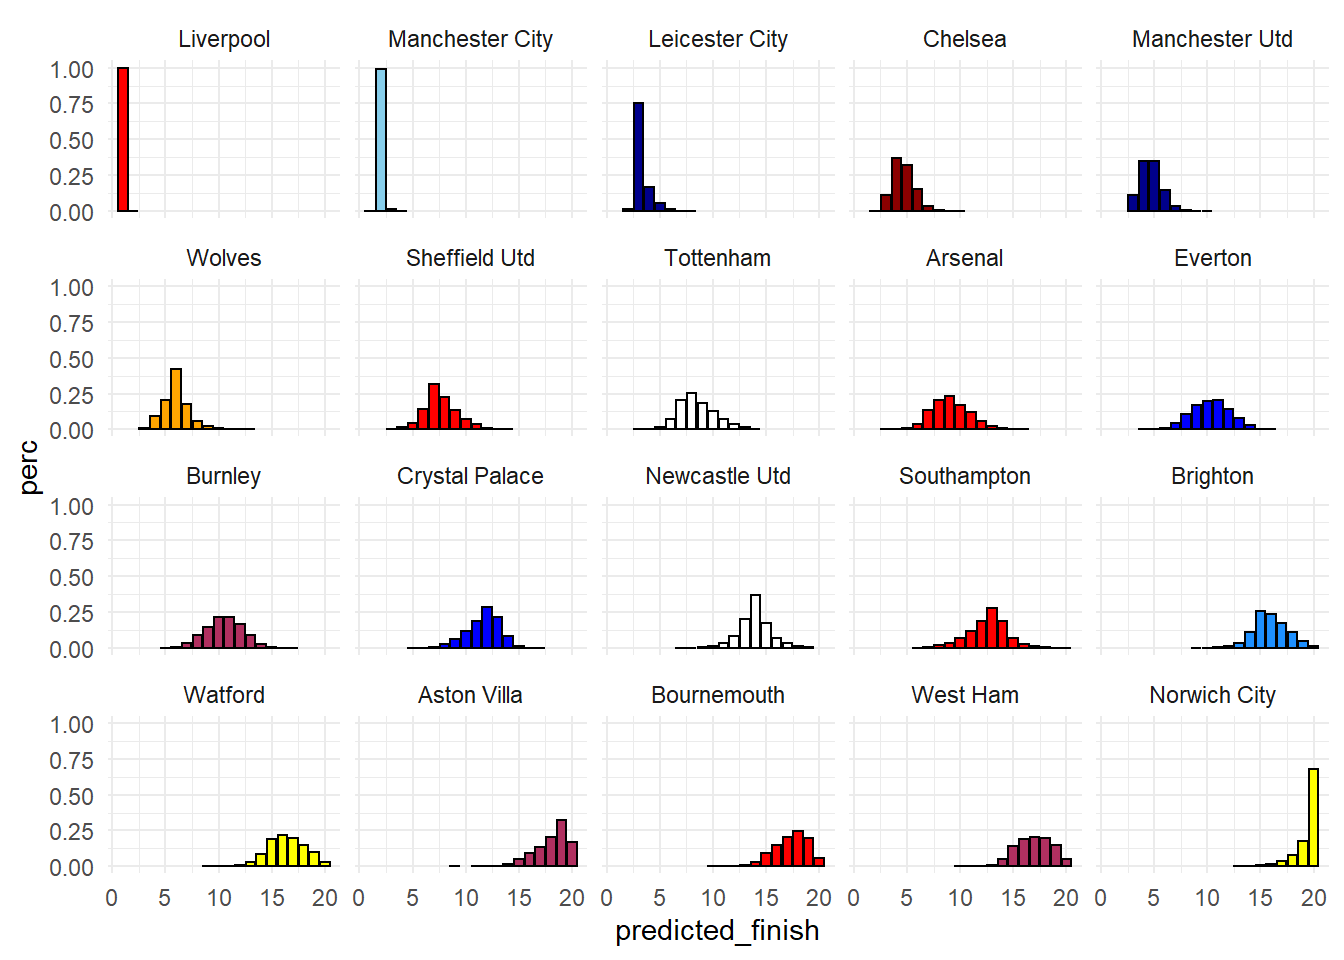
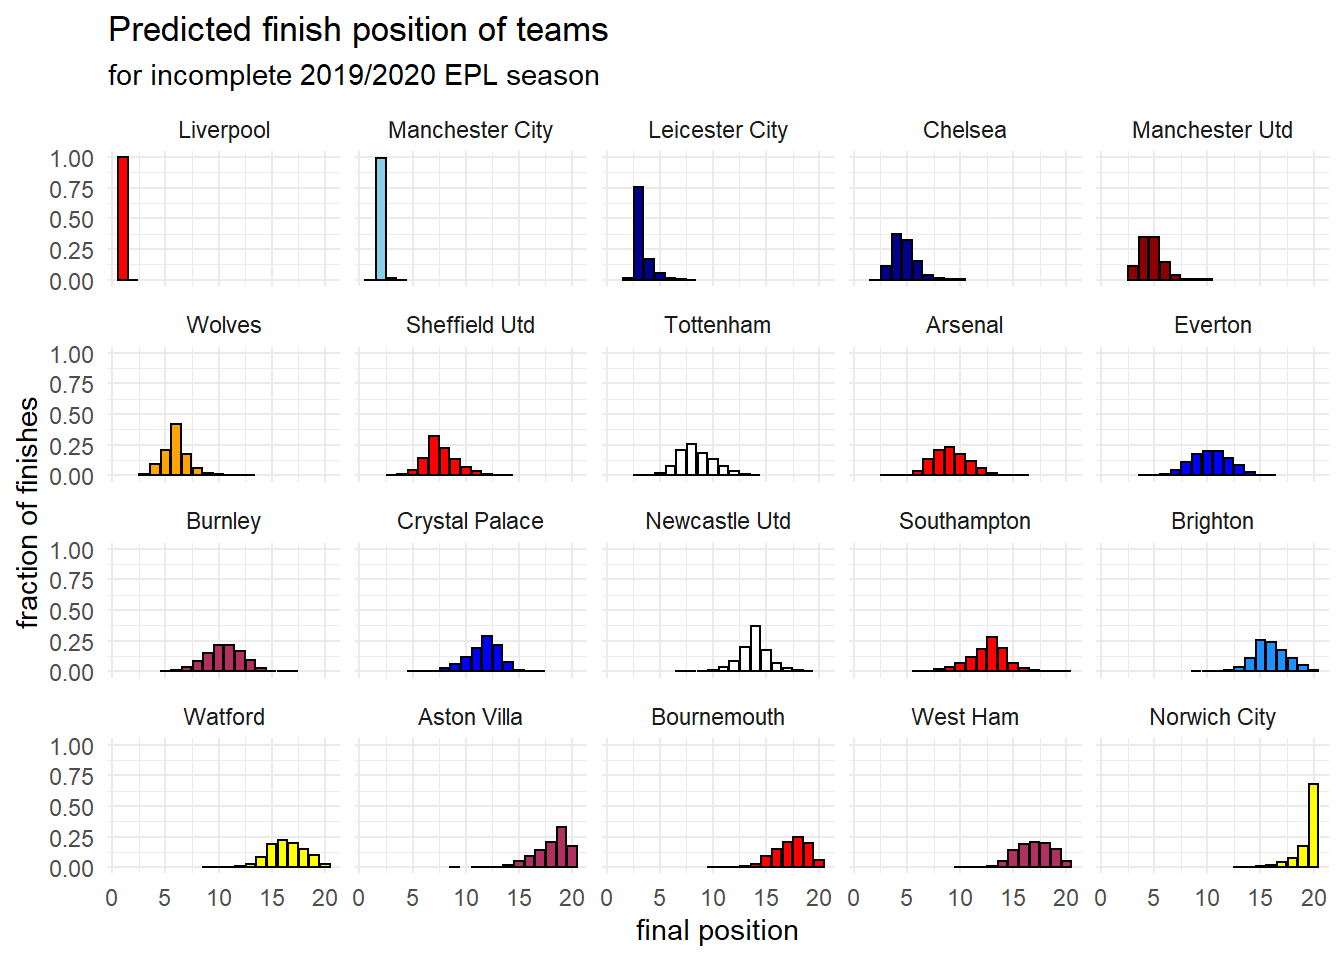
fixing small changes in dc psot 2

diff --git a/content/post/2019-30-5-dixon-coles-2.html b/content/post/2019-30-5-dixon-coles-2.html
@@ -455,11 +455,8 @@ p5 &lt;- pars_2020 %&gt;%
   ggplot(aes(x = attack, y = defence, colour = attack + defence, label = team)) +
   geom_point(size = 3, alpha = 0.7) +
   geom_text_repel() +
-  labs(title = &quot;Dixon Coles parameters per team 2019/2020&quot;,
-       x = &quot;attacking strength&quot;,
-       y = &quot;defensive strength&quot;) +
   scale_colour_continuous(guide = FALSE) +
-  labs(title = &quot;Dixon-Coles parameters for the 2019/2020 Premier League Season&quot;,
+  labs(title = &quot;Dixon-Coles parameters for the 2019/2020 EPL&quot;,
        x = &quot;attacking strength&quot;,
        y = &quot;defensive strength&quot;) +
   theme_minimal()
@@ -529,7 +526,7 @@ predicted_finishes_2020 &lt;- map_df(fixture_sims_2020, function(sim_fixtures, t
   mutate(team = factor(team, levels = unique(team)))</code></pre>
 <p>If we then plot these predicted finishes (ordered by the chance of their highest finish position), we can get an idea of where we expect teams to end the season:</p>
 <pre class="r"><code>#list of team colours
-team_cols &lt;- c(&quot;red&quot;, &quot;skyblue&quot;, &quot;darkblue&quot;, &quot;darkred&quot;, &quot;darkblue&quot;,
+team_cols &lt;- c(&quot;red&quot;, &quot;skyblue&quot;, &quot;darkblue&quot;, &quot;darkblue&quot;, &quot;darkred&quot;,
                &quot;orange&quot;, &quot;red&quot;, &quot;white&quot;, &quot;red&quot;, &quot;blue&quot;, &quot;maroon&quot;, 
                &quot;blue&quot;, &quot;white&quot;, &quot;red&quot;, &quot;dodgerblue&quot;, &quot;yellow&quot;, 
                &quot;maroon&quot;, &quot;red&quot;, &quot;maroon&quot;, &quot;yellow&quot;)
@@ -539,6 +536,12 @@ p6 &lt;- ggplot(predicted_finishes_2020,
              aes(x = predicted_finish, y = perc, fill = team)) +
   geom_bar(stat = &quot;identity&quot;, colour = &quot;black&quot;) +
   scale_fill_manual(values = team_cols, guide = FALSE) +
+  labs(
+    title = &quot;Predicted finish position of teams&quot;,
+    subtitle = &quot;for incomplete 2019/2020 EPL season&quot;,
+    y = &quot;fraction of finishes&quot;,
+    x = &quot;final position&quot;
+  ) +
   theme_minimal() +
   facet_wrap(~team)
 

diff --git a/public/post/dixon_coles_2/index.html b/public/post/dixon_coles_2/index.html
@@ -747,11 +747,8 @@ p5 &lt;- pars_2020 %&gt;%
   ggplot(aes(x = attack, y = defence, colour = attack + defence, label = team)) +
   geom_point(size = 3, alpha = 0.7) +
   geom_text_repel() +
-  labs(title = &quot;Dixon Coles parameters per team 2019/2020&quot;,
-       x = &quot;attacking strength&quot;,
-       y = &quot;defensive strength&quot;) +
   scale_colour_continuous(guide = FALSE) +
-  labs(title = &quot;Dixon-Coles parameters for the 2019/2020 Premier League Season&quot;,
+  labs(title = &quot;Dixon-Coles parameters for the 2019/2020 EPL&quot;,
        x = &quot;attacking strength&quot;,
        y = &quot;defensive strength&quot;) +
   theme_minimal()
@@ -821,7 +818,7 @@ predicted_finishes_2020 &lt;- map_df(fixture_sims_2020, function(sim_fixtures, t
   mutate(team = factor(team, levels = unique(team)))</code></pre>
 <p>If we then plot these predicted finishes (ordered by the chance of their highest finish position), we can get an idea of where we expect teams to end the season:</p>
 <pre class="r"><code>#list of team colours
-team_cols &lt;- c(&quot;red&quot;, &quot;skyblue&quot;, &quot;darkblue&quot;, &quot;darkred&quot;, &quot;darkblue&quot;,
+team_cols &lt;- c(&quot;red&quot;, &quot;skyblue&quot;, &quot;darkblue&quot;, &quot;darkblue&quot;, &quot;darkred&quot;,
                &quot;orange&quot;, &quot;red&quot;, &quot;white&quot;, &quot;red&quot;, &quot;blue&quot;, &quot;maroon&quot;, 
                &quot;blue&quot;, &quot;white&quot;, &quot;red&quot;, &quot;dodgerblue&quot;, &quot;yellow&quot;, 
                &quot;maroon&quot;, &quot;red&quot;, &quot;maroon&quot;, &quot;yellow&quot;)
@@ -831,6 +828,12 @@ p6 &lt;- ggplot(predicted_finishes_2020,
              aes(x = predicted_finish, y = perc, fill = team)) +
   geom_bar(stat = &quot;identity&quot;, colour = &quot;black&quot;) +
   scale_fill_manual(values = team_cols, guide = FALSE) +
+  labs(
+    title = &quot;Predicted finish position of teams&quot;,
+    subtitle = &quot;for incomplete 2019/2020 EPL season&quot;,
+    y = &quot;fraction of finishes&quot;,
+    x = &quot;final position&quot;
+  ) +
   theme_minimal() +
   facet_wrap(~team)
 

diff --git a/public/post/cam_rowing_1/index.html b/public/post/cam_rowing_1/index.html
@@ -517,9 +517,9 @@ p2</code></pre>
     
     <li><a href="/project/yorkshire_world_cup/">Could Yorkshire Win the World Cup</a></li>
     
-    <li><a href="/post/dynamic_web_scraping/">Scraping Dynamic Websites with PhantomJS</a></li>
-    
     <li><a href="/post/guardian_knowledge_june/">The Guardian Knowledge June 2019</a></li>
+    
+    <li><a href="/post/dynamic_web_scraping/">Scraping Dynamic Websites with PhantomJS</a></li>
     
     <li><a href="/post/riddler-1st-feb-2019/">Riddler 1st February 2019</a></li>
     

diff --git a/public/post/five_min_trivia_birthdays/index.html b/public/post/five_min_trivia_birthdays/index.html
@@ -769,11 +769,11 @@ best_teams &lt;-
     
     <li><a href="/post/advent_calendar_trivia/">Advent Calendar of Football Trivia Analyses</a></li>
     
+    <li><a href="/project/statsbomb_conference/">Statsbomb Conference</a></li>
+    
     <li><a href="/project/guardian_knowledge/">Guardian: The Knowledge</a></li>
     
     <li><a href="/project/yorkshire_world_cup/">Could Yorkshire Win the World Cup</a></li>
-    
-    <li><a href="/project/statsbomb_conference/">Statsbomb Conference</a></li>
     
   </ul>
 </div>

diff --git a/public/post/five_min_trivia_kraftwerk/index.html b/public/post/five_min_trivia_kraftwerk/index.html
@@ -870,7 +870,7 @@ head(winners_matches, n = 27)</code></pre>
     
     <li><a href="/post/advent_calendar_trivia/">Advent Calendar of Football Trivia Analyses</a></li>
     
-    <li><a href="/project/statsbomb_conference/">Statsbomb Conference</a></li>
+    <li><a href="/project/yorkshire_world_cup/">Could Yorkshire Win the World Cup</a></li>
     
     <li><a href="/project/guardian_knowledge/">Guardian: The Knowledge</a></li>
     

diff --git a/public/post/fall_back_in_to_space/index.html b/public/post/fall_back_in_to_space/index.html
@@ -1001,7 +1001,7 @@ microbenchmark(
     
     <li><a href="/post/advent_calendar_trivia/">Advent Calendar of Football Trivia Analyses</a></li>
     
-    <li><a href="/project/yorkshire_world_cup/">Could Yorkshire Win the World Cup</a></li>
+    <li><a href="/project/statsbomb_conference/">Statsbomb Conference</a></li>
     
   </ul>
 </div>
